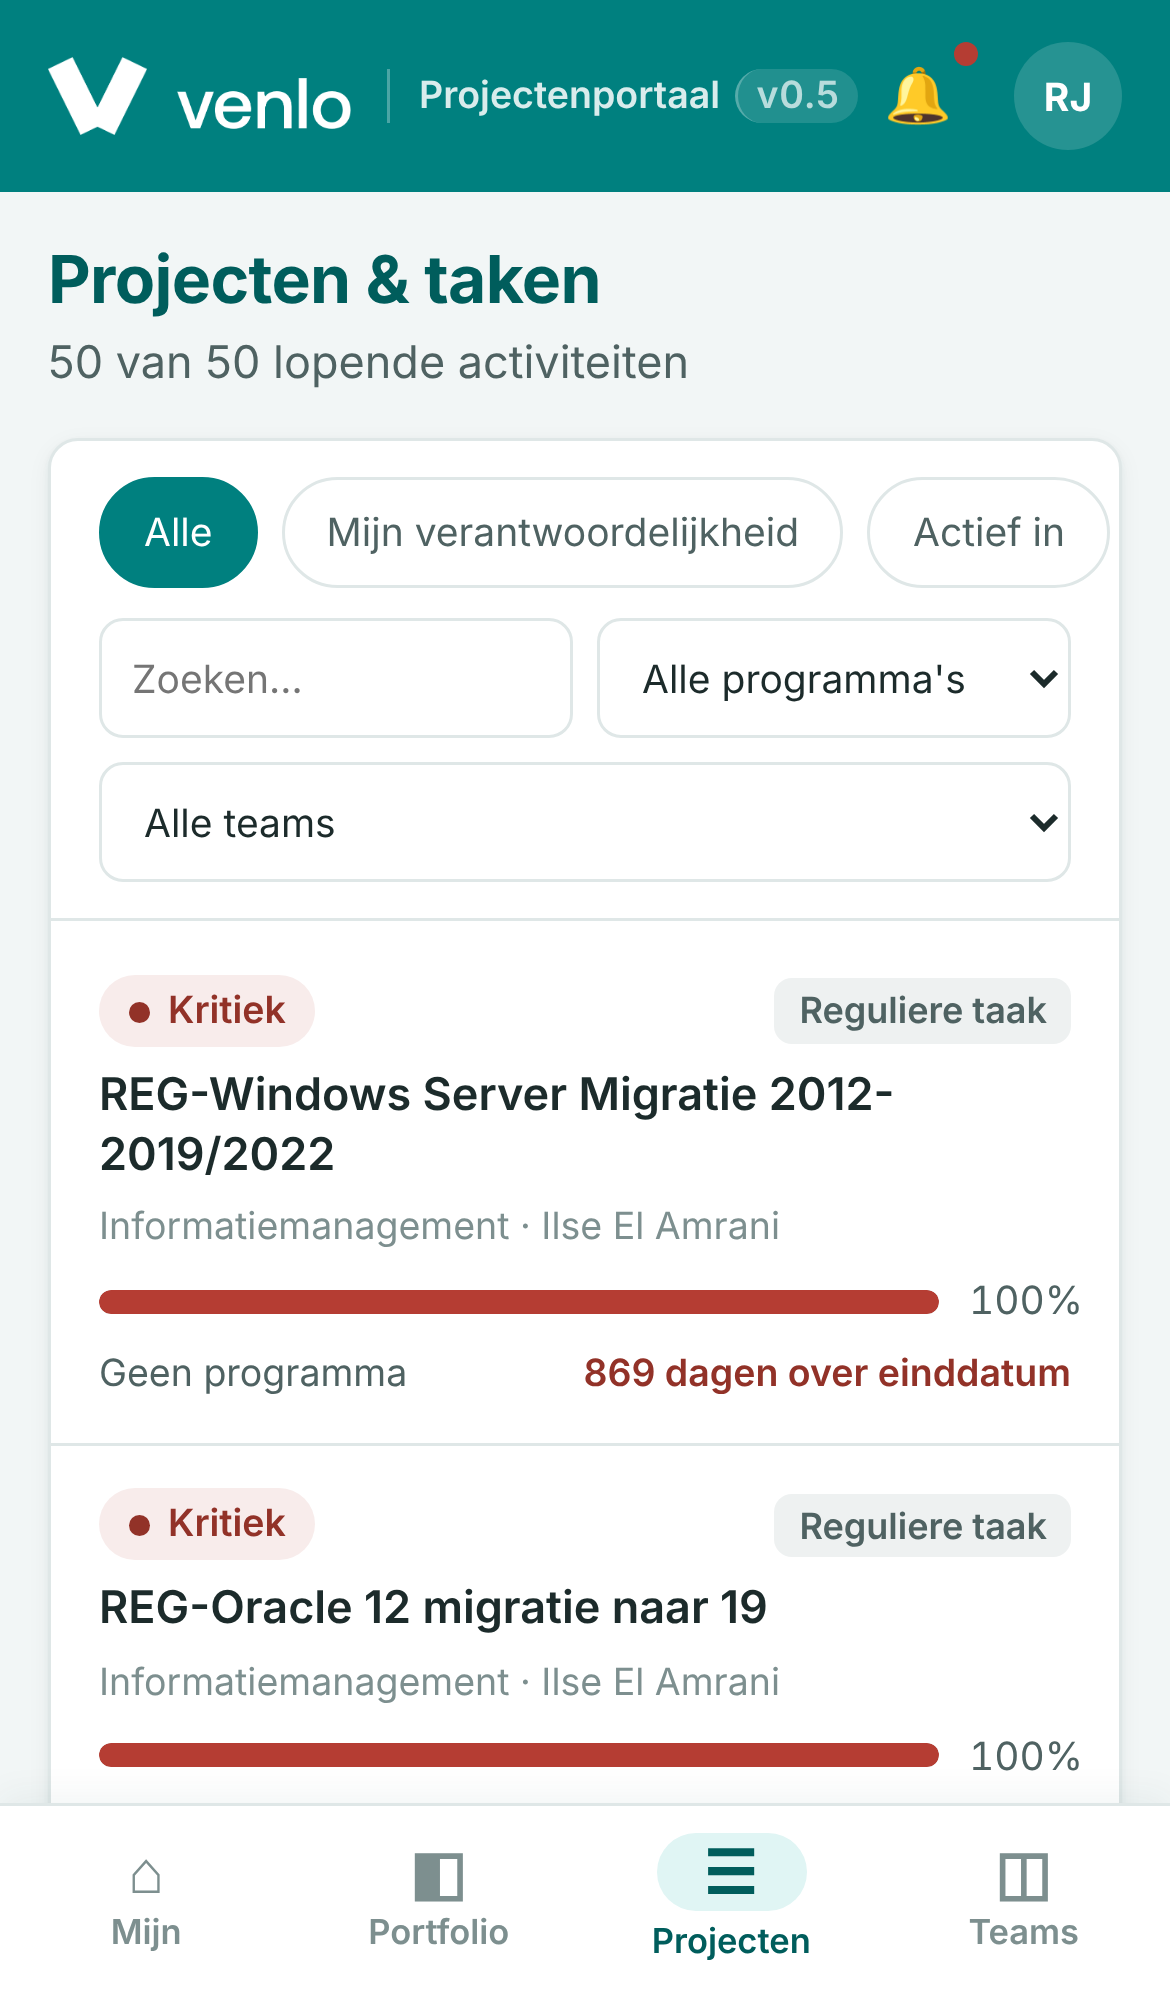
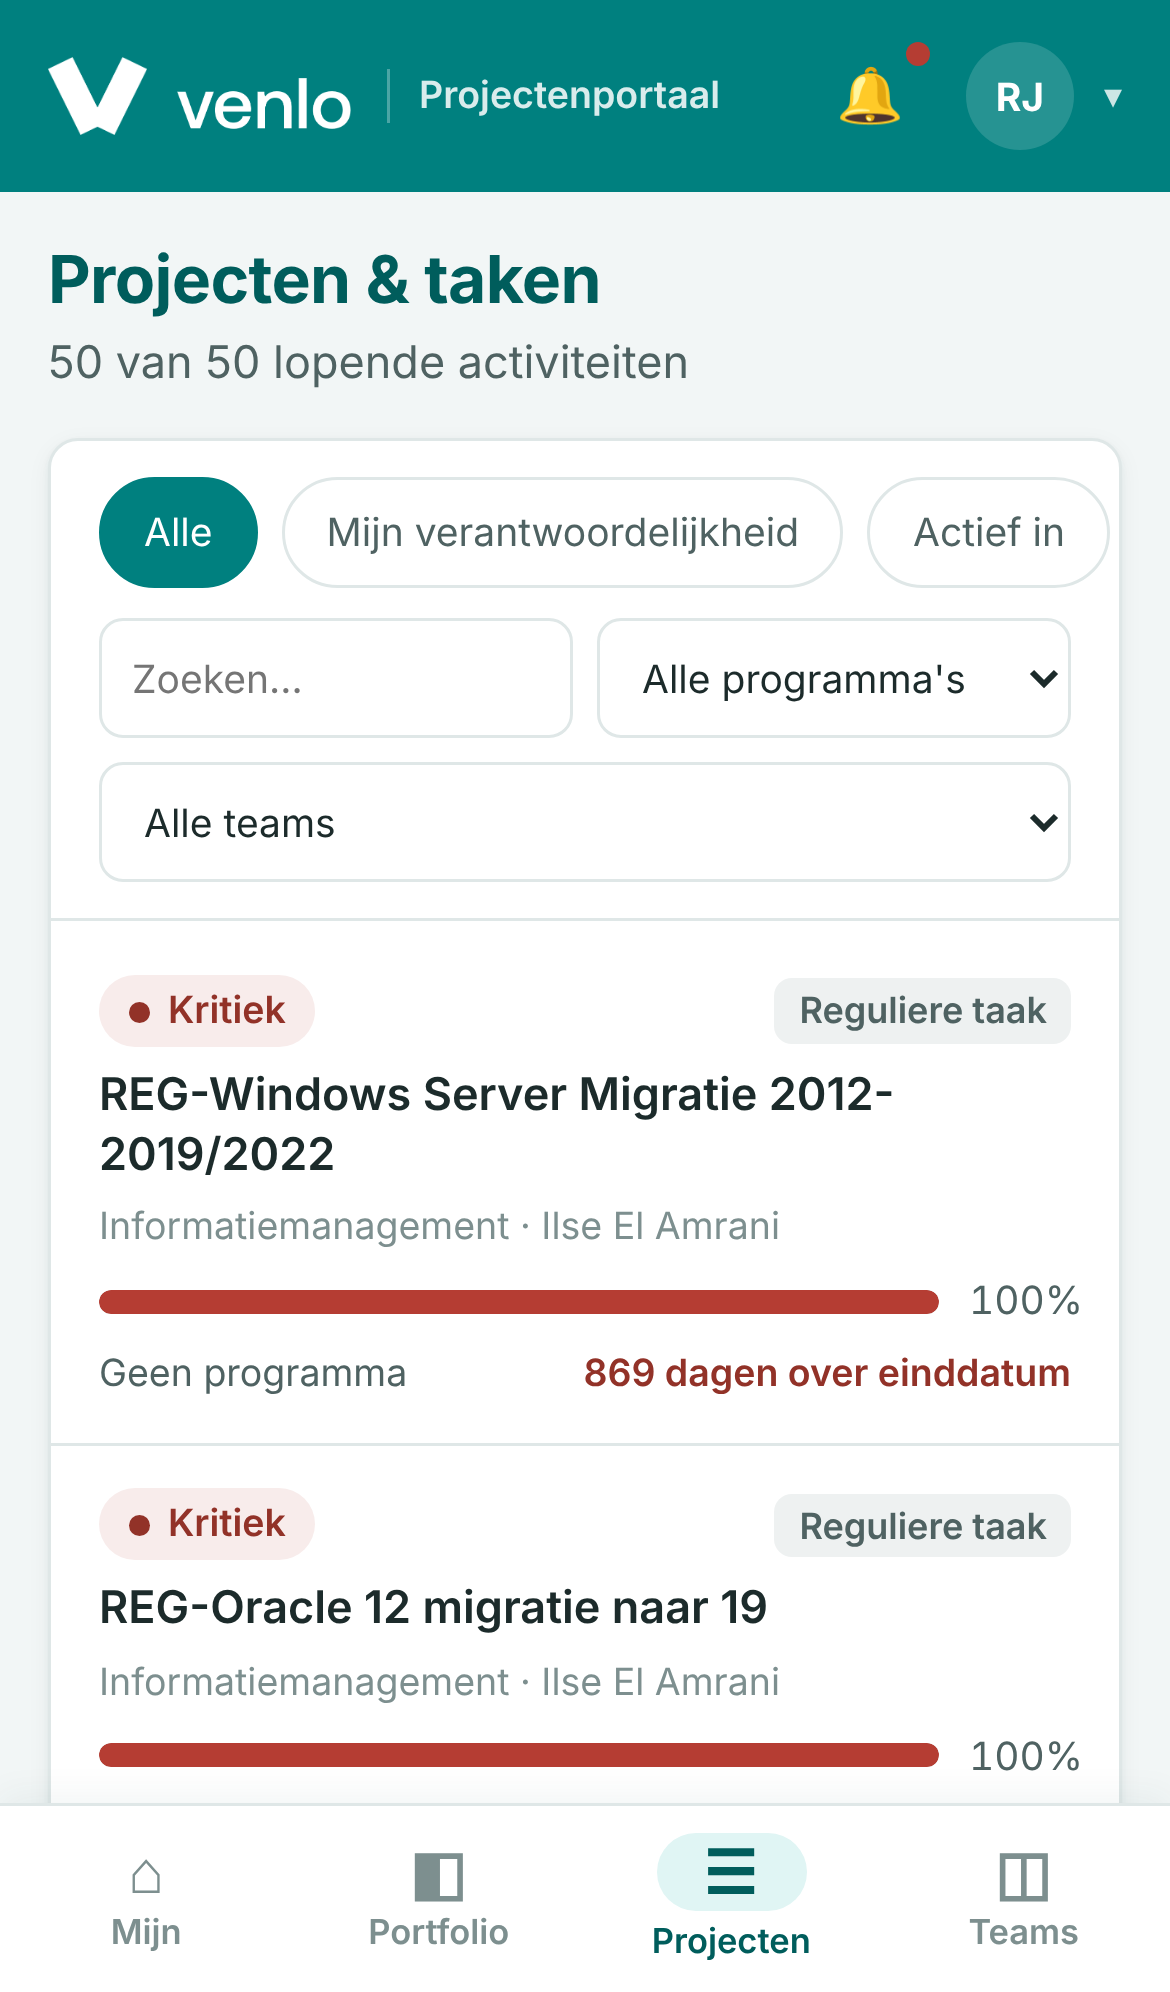
Move version number into user dropdown menu with logout, fix horizontal overflow
Claude-Session: https://claude.ai/code/session_01KzQmWtTsrPzEQQepSbhwuj

Changed region(s): [[0.6154, 0.0, 0.9538, 0.0934]]

diff --git a/mockup/index.html b/mockup/index.html
@@ -19,7 +19,7 @@
     <div class="login-panel">
       <div class="login-card">
         <img class="login-logo" src="assets/venlo-logo-blauwgroen.png" alt="Gemeente Venlo">
-        <h1>Projectenportaal <span class="versie"></span></h1>
+        <h1>Projectenportaal</h1>
         <p class="login-lead">Inzicht in lopende projecten, reguliere taken en wie waaraan werkt.</p>
         <button class="ms-btn" id="ms-login" type="button">
           <svg width="20" height="20" viewBox="0 0 21 21" aria-hidden="true"><rect x="1" y="1" width="9" height="9" fill="#f25022"/><rect x="11" y="1" width="9" height="9" fill="#7fba00"/><rect x="1" y="11" width="9" height="9" fill="#00a4ef"/><rect x="11" y="11" width="9" height="9" fill="#ffb900"/></svg>
@@ -38,7 +38,7 @@
     <aside class="sidebar">
       <div class="brand">
         <img class="brand-logo" src="assets/venlo-logo-wit.png" alt="Gemeente Venlo">
-        <span class="brand-app">Projectenportaal <span class="versie"></span></span>
+        <span class="brand-app">Projectenportaal</span>
       </div>
       <nav class="nav" id="nav">
         <a href="#/home" data-route="home"><span class="ico">⌂</span>Mijn overzicht</a>
@@ -47,14 +47,13 @@
         <a href="#/teams" data-route="teams"><span class="ico">◫</span>Teams</a>
         <div class="nav-sep">Overig</div>
         <a href="#/home" class="muted-link"><span class="ico">⚑</span>Rapportages</a>
-        <a href="#/login" class="muted-link"><span class="ico">⎋</span>Uitloggen</a>
       </nav>
       <div class="sidebar-foot">Mockup · export 16-11-2026</div>
     </aside>
 
     <div class="main">
       <header class="topbar">
-        <div class="mob-brand"><img class="mob-v" src="assets/venlo-v-wit.png" alt=""><img class="mob-word" src="assets/venlo-woordmerk-wit.png" alt="Venlo"><span>Projectenportaal <span class="versie"></span></span></div>
+        <div class="mob-brand"><img class="mob-v" src="assets/venlo-v-wit.png" alt=""><img class="mob-word" src="assets/venlo-woordmerk-wit.png" alt="Venlo"><span>Projectenportaal</span></div>
         <div class="search">
           <span aria-hidden="true">⌕</span>
           <input type="search" id="search" placeholder="Zoek activiteit, team of medewerker…">
@@ -62,10 +61,18 @@
         <div class="topbar-right">
           <span class="pill-date">Peildatum 16 nov 2026</span>
           <button class="icon-btn" aria-label="Meldingen">🔔<span class="dot"></span></button>
-          <a class="user" href="#/login" title="Uitloggen">
-            <div class="avatar">RJ</div>
-            <div class="user-text"><strong>Ruud Janssen</strong><span>Hoofd Informatiemanagement</span></div>
-          </a>
+          <div class="usermenu" id="usermenu">
+            <button class="user" id="user-btn" type="button" aria-haspopup="menu" aria-expanded="false" aria-controls="user-dd">
+              <div class="avatar">RJ</div>
+              <div class="user-text"><strong>Ruud Janssen</strong><span>Hoofd Informatiemanagement</span></div>
+              <span class="caret" aria-hidden="true">▾</span>
+            </button>
+            <div class="user-dd" id="user-dd" role="menu" hidden>
+              <div class="dd-head"><div class="avatar">RJ</div><div><strong>Ruud Janssen</strong><span>Hoofd Informatiemanagement</span></div></div>
+              <div class="dd-item static" role="none"><span class="ico">ⓘ</span>Versie<span class="versie"></span></div>
+              <a class="dd-item" role="menuitem" href="#/login"><span class="ico">⎋</span>Uitloggen</a>
+            </div>
+          </div>
         </div>
       </header>
       <main class="content" id="view"></main>

diff --git a/mockup/styles.css b/mockup/styles.css
@@ -610,9 +610,33 @@ details.person[open] summary { margin-bottom: 8px; }
 
 @media (max-width: 760px) { .card-head.stack { flex-direction: column; align-items: stretch; gap: 10px; } .card-head.stack .select { height: 40px; } }
 
-/* versienummer achter de titel */
-.versie { display: inline-block; font-size: .72em; font-weight: 600; padding: 1px 7px; border-radius: 99px; vertical-align: middle; margin-left: 4px; letter-spacing: .02em; }
-.brand-app .versie, .mob-brand .versie { background: rgba(255,255,255,.18); color: #fff; }
-.login-card h1 .versie { background: var(--vbg-10); color: var(--vbg-150); font-size: .5em; vertical-align: 4px; }
+/* gebruikersmenu met versie en uitloggen */
+.usermenu { position: relative; }
+button.user { font: inherit; color: inherit; background: transparent; border: 0; padding: 4px 6px; border-radius: 10px; cursor: pointer; text-align: left; }
+button.user:hover, button.user[aria-expanded="true"] { background: var(--surface-2); }
+.caret { font-size: 12px; color: var(--text-3); }
+.user-dd { position: absolute; right: 0; top: calc(100% + 8px); z-index: 40; width: 260px; max-width: calc(100vw - 24px); background: var(--surface); border: 1px solid var(--line); border-radius: 12px; box-shadow: 0 10px 30px rgba(0, 40, 40, .18); padding: 6px; color: var(--text); }
+.dd-head { display: flex; gap: 10px; align-items: center; padding: 10px; border-bottom: 1px solid var(--line); margin-bottom: 4px; }
+.dd-head strong { display: block; font-size: 14px; }
+.dd-head span { font-size: 12.5px; color: var(--text-3); }
+.dd-head .avatar { background: var(--vbg-10); color: var(--vbg-150); }
+.dd-item { display: flex; align-items: center; gap: 10px; padding: 10px; border-radius: 8px; font-size: 14px; color: var(--text); }
+.dd-item .ico { width: 18px; text-align: center; color: var(--text-3); }
+a.dd-item:hover { background: var(--surface-2); text-decoration: none; }
+.dd-item.static { color: var(--text-2); }
+.versie { margin-left: auto; font-size: 12px; font-weight: 700; padding: 2px 8px; border-radius: 99px; background: var(--vbg-10); color: var(--vbg-150); }
+@media (max-width: 760px) {
+  button.user { padding: 0; }
+  button.user:hover, button.user[aria-expanded="true"] { background: transparent; }
+  .topbar .caret { color: rgba(255,255,255,.8); }
+  .mob-brand { min-width: 0; }
+  .mob-brand > span { white-space: nowrap; overflow: hidden; text-overflow: ellipsis; }
+}
 
-@media (max-width: 760px) { .mob-brand > span { white-space: nowrap; } .mob-brand .versie { margin-left: 2px; padding: 0 6px; } }
+/* tablet: bovenbalk compacter zodat niets buiten beeld valt */
+@media (max-width: 1100px) and (min-width: 761px) {
+  .search { width: auto; flex: 1; min-width: 0; margin-right: 16px; }
+  .pill-date, .user-text { display: none; }
+}
+.grid > *, .card { min-width: 0; }
+@media (min-width: 761px) { .chips { flex-wrap: wrap; } }

diff --git a/mockup/app.js b/mockup/app.js
@@ -3,6 +3,13 @@
   const VERSIE = "0.5";
   document.querySelectorAll(".versie").forEach((el) => (el.textContent = `v${VERSIE}`));
   document.title = `Projectenportaal v${VERSIE} · Venlo`;
+  // gebruikersmenu (versie + uitloggen)
+  const userBtn = document.getElementById("user-btn"), userDd = document.getElementById("user-dd");
+  const setMenu = (open) => { userDd.hidden = !open; userBtn.setAttribute("aria-expanded", String(open)); };
+  userBtn.addEventListener("click", (e) => { e.stopPropagation(); setMenu(userDd.hidden); });
+  document.addEventListener("click", (e) => { if (!e.target.closest("#usermenu")) setMenu(false); });
+  document.addEventListener("keydown", (e) => { if (e.key === "Escape") setMenu(false); });
+  window.addEventListener("hashchange", () => setMenu(false));
   const D = window.PPM;
   const A = D.activiteiten;
   const ME = D.gebruiker.naam;

diff --git a/README.md b/README.md
@@ -34,7 +34,7 @@ python tools/export_naar_mockup.py projecten.xlsx --uren uren.xlsx --echte-namen
 - De exports zelf (`*.xlsx`) worden niet in de repository opgeslagen.
 
 ## Versie
-Huidige versie: **v0.5**. Het nummer staat in `mockup/app.js` (`VERSIE`) en wordt getoond achter "Projectenportaal" (zijbalk, mobiele kop, inlogscherm en browsertab).
+Huidige versie: **v0.5**. Het nummer staat in `mockup/app.js` (`VERSIE`) en is te zien in het gebruikersmenu rechtsboven (klik op je naam/avatar) en in de browsertab.
 
 | Versie | Inhoud |
 |---|---|
